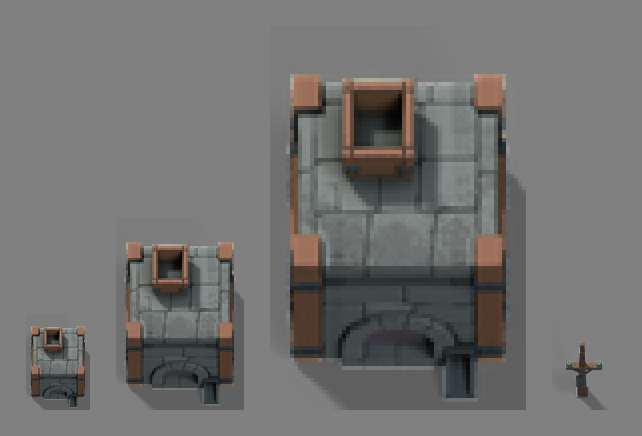
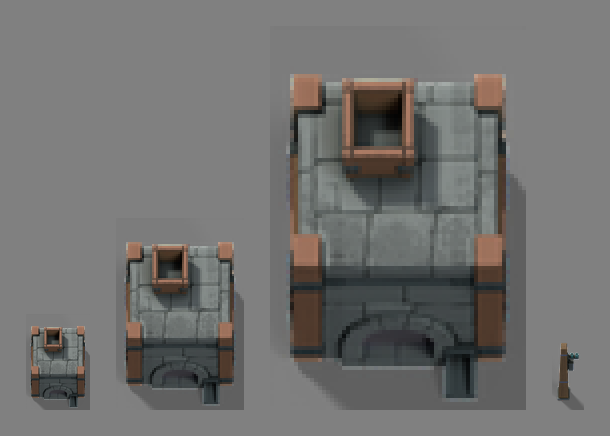
Pole v5: the cross read is gone, but the equipment does not separate at 1x
One-sided design, yaw 0 confirmed by turnaround (equipment falls on the
key-lit left; 90/270 hide it entirely at 0.6% asymmetry).

cross_read v4 -> v5: asymmetry 26% -> 52%, mast_above 36% -> 18%, thin spine
67% -> 50%. The shape is no longer a cross under any reading. My prediction
that mast_above would stay high was wrong.

Two measured defects instead:
- transformer box vs post value contrast is 1.27x. It is a large element under
  the by-area contrast rule and reads as a smudge, not an object.
- verdigris DROPPED from the remap as ambiguous (d1/d2 1.36, needs <0.8), so
  the insulators kept Tripo's shift: R/G at 0.65x of target with B at 0.99x,
  a hue shift to cyan rather than a dimming. 15 texels total.

Adds --source to render_asset.py so an A/B against a superseded mesh does not
need a manifest edit.

Changed region(s): [[0.4361, 0.1491, 0.9656, 0.9541], [0.1869, 0.5367, 0.4049, 0.9541], [0.0311, 0.7454, 0.1557, 0.9541]]

diff --git a/art/blender/render_asset.py b/art/blender/render_asset.py
@@ -67,7 +67,7 @@ def main():
     no_matnorm = "no-material-norm" in a
     suffix_extra = a.get("out-suffix", "")
 
-    glb = os.path.join(REPO, "art", "source", cfg.get("source", f"{name}.glb"))
+    glb = os.path.join(REPO, "art", "source", a.get("source", cfg.get("source", f"{name}.glb")))
     if not os.path.exists(glb):
         raise SystemExit(f"MISSING_SOURCE {glb}")
 
